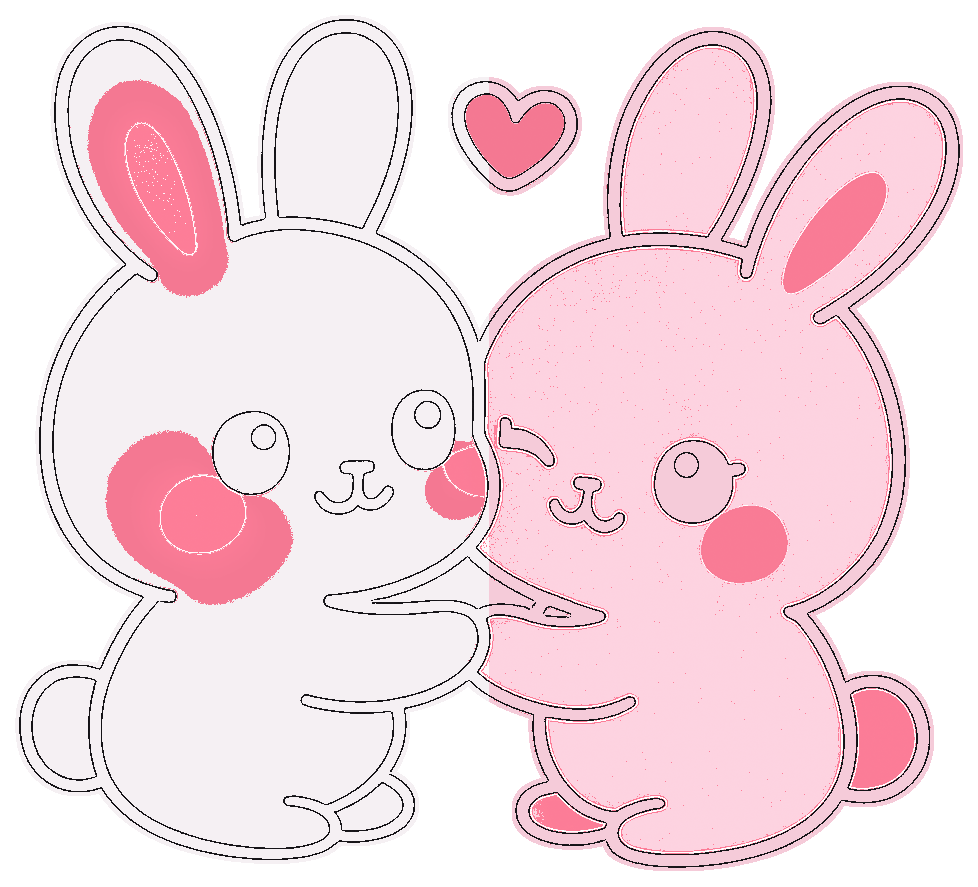
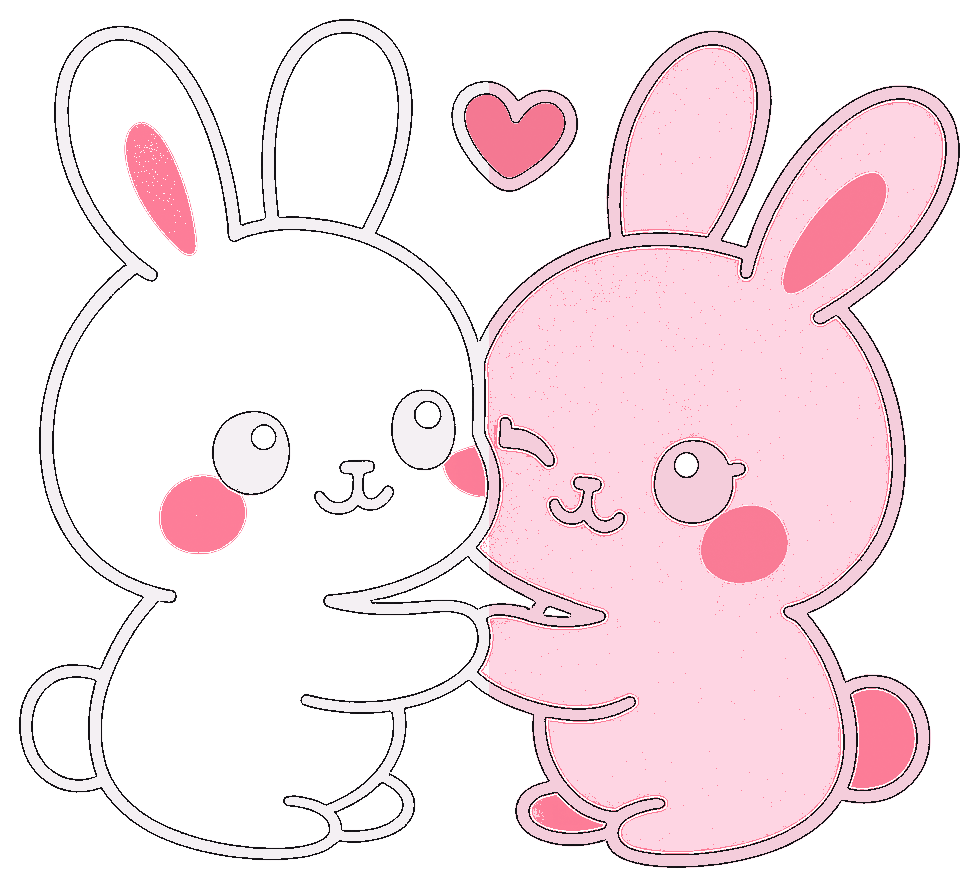
Fix mobile heart and transparent orbit images

diff --git a/components/floating-couples.tsx b/components/floating-couples.tsx
@@ -183,7 +183,9 @@ export function FloatingCouples({ visible }: { visible: boolean }) {
       const height = window.innerHeight
       const camera = cameraRef.current
       const center = getHeartCenter(width, height, camera)
-      const mobileScale = width < 620 ? 0.72 : 1
+      const isPhone = width < 430
+      const isMobile = width < 620
+      const mobileScale = isPhone ? 0.48 : isMobile ? 0.6 : 1
       const baseY = orbitLocalY(width)
 
       snapshotRef.current = []
@@ -205,7 +207,9 @@ export function FloatingCouples({ visible }: { visible: boolean }) {
         const front = Math.max(0, Math.min(1, 1.12 - projected.z / 620))
         const depthScale = 0.5 + front * 0.62
         const opacity = 0.24 + front * 0.74
-        const blur = (1 - front) * 1.25
+        const blur = isMobile ? 0 : (1 - front) * 1.25
+        const pinkGlow = isPhone ? 6 + front * 10 : 10 + front * 16
+        const violetGlow = isPhone ? 12 + front * 14 : 22 + front * 28
         const rotate = Math.cos(angle) * item.tilt + Math.sin(time * 1.6 + item.phase) * 2.5
         const widthPx =
           item.size * mobileScale * (0.9 + camera.zoom * 0.1) * (0.78 + front * 0.22)
@@ -214,7 +218,9 @@ export function FloatingCouples({ visible }: { visible: boolean }) {
         node.style.zIndex = front > 0.45 ? "3" : "0"
         image.style.width = `${widthPx}px`
         image.style.opacity = opacity.toFixed(3)
-        image.style.filter = `blur(${blur.toFixed(2)}px) drop-shadow(0 0 ${10 + front * 16}px rgba(255, 65, 130, ${0.28 + front * 0.4})) drop-shadow(0 0 ${22 + front * 28}px rgba(120, 95, 255, ${0.18 + front * 0.22}))`
+        image.style.background = "transparent"
+        image.style.maxWidth = "none"
+        image.style.filter = `${blur > 0 ? `blur(${blur.toFixed(2)}px) ` : ""}drop-shadow(0 0 ${pinkGlow}px rgba(255, 65, 130, ${0.28 + front * 0.4})) drop-shadow(0 0 ${violetGlow}px rgba(120, 95, 255, ${0.18 + front * 0.22}))`
 
         snapshotRef.current.push({ x: projected.x, y: projected.y })
       })

diff --git a/components/heart-3d.tsx b/components/heart-3d.tsx
@@ -39,6 +39,11 @@ const CAMERA_DEFAULT: CameraState = {
 const heartBaseY = (width: number) => (width < 620 ? 0.52 : 0.68)
 const sceneBaseY = (width: number, height: number) => (width < 620 ? height * 0.4 : height * 0.39)
 const heartLightLocalY = (width: number) => (width < 620 ? -52 : -46)
+const heartResponsiveScale = (width: number) => {
+  if (width < 430) return 1.18
+  if (width < 620) return 1.38
+  return 1.78
+}
 
 function projectScenePoint(
   localX: number,
@@ -296,7 +301,7 @@ export function Heart3D({ started }: Heart3DProps) {
       camera.bottom = -viewHeight / 2
       camera.updateProjectionMatrix()
 
-      const responsiveScale = width < 620 ? 2.08 : 1.78
+      const responsiveScale = heartResponsiveScale(width)
       group.scale.setScalar(responsiveScale * current.zoom)
       group.position.y = heartBaseY(width)
       group.position.x = 0
@@ -317,7 +322,7 @@ export function Heart3D({ started }: Heart3DProps) {
 
       const width = window.innerWidth
       const height = window.innerHeight
-      const responsiveScale = width < 620 ? 2.08 : 1.78
+      const responsiveScale = heartResponsiveScale(width)
       const activeScale = startedRef.current ? 1 : 0.72
       const anchor = projectScenePoint(0, heartLightLocalY(width), 0, current, width, height)
       const worldPerPixel = 10 / Math.max(1, height)
